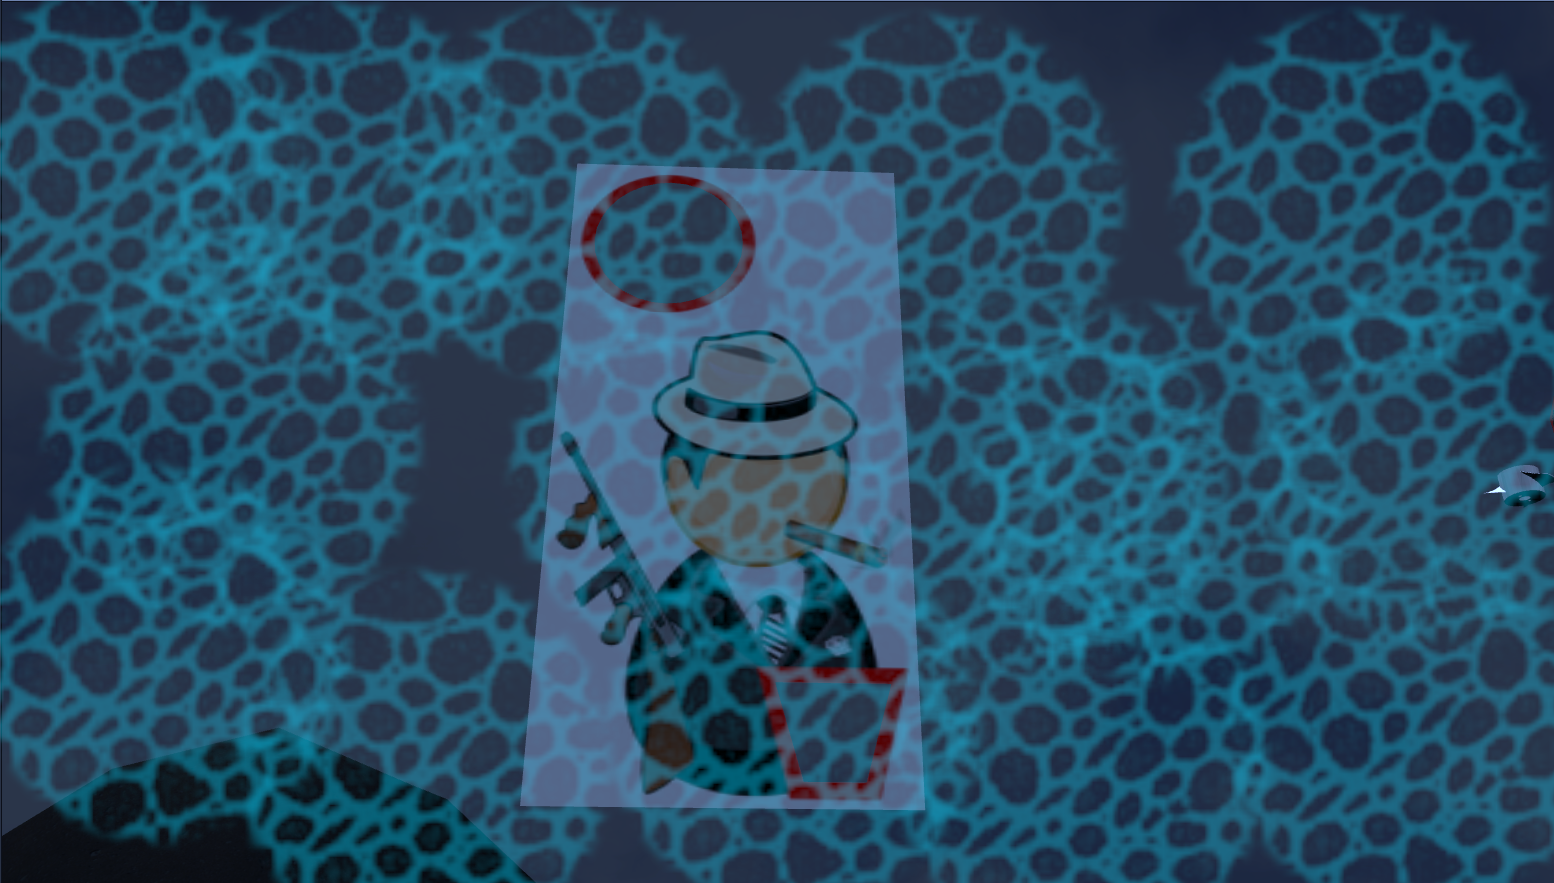
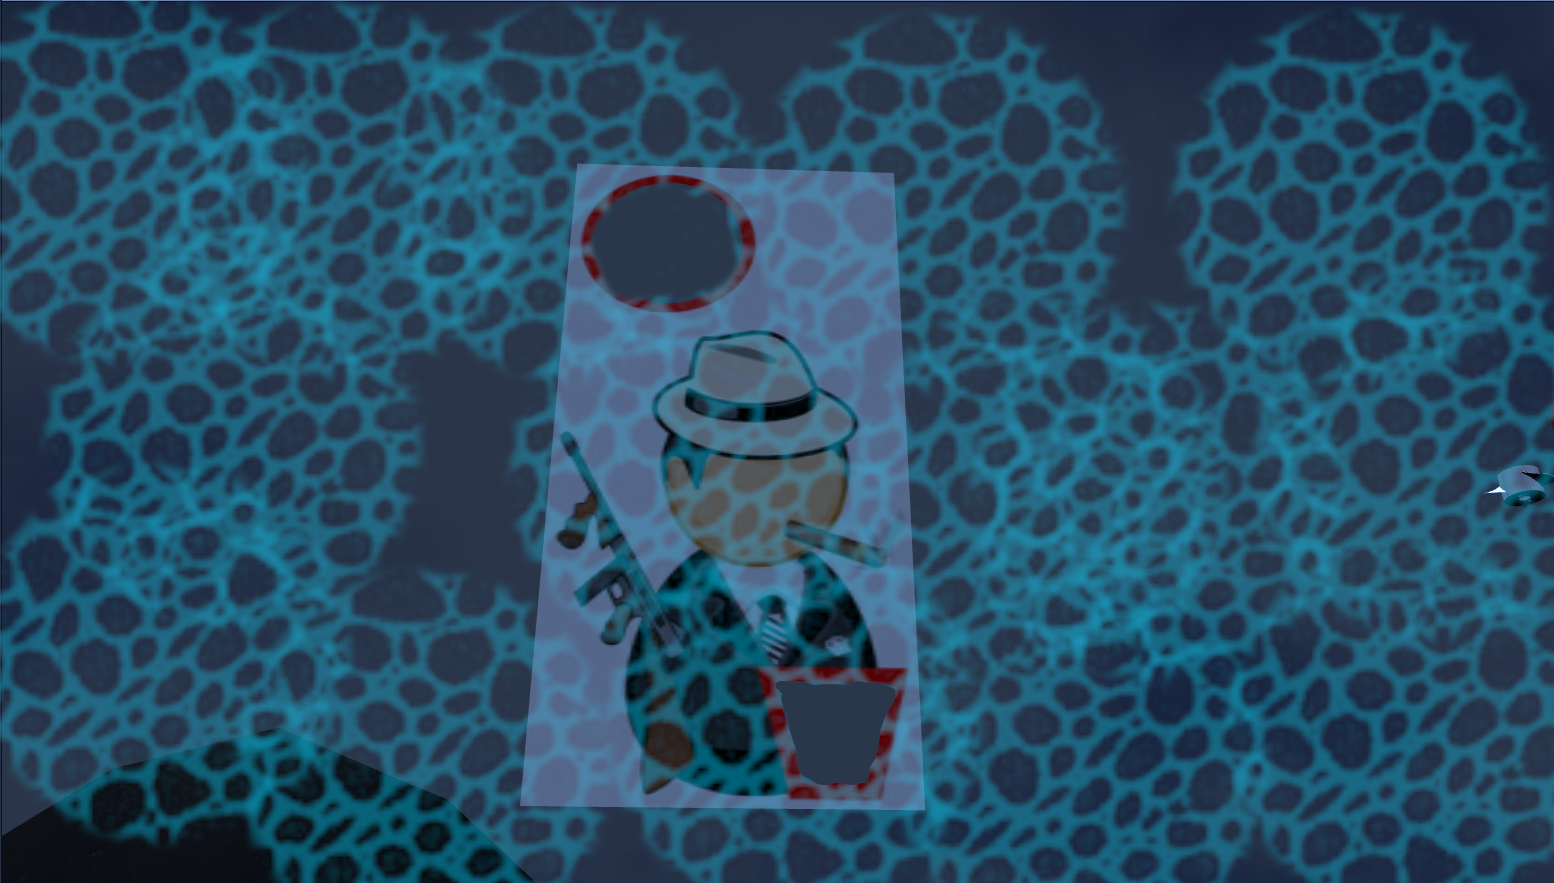
implemented more effective hole search

Changed region(s): [[0.3707, 0.214, 0.4942, 0.3364], [0.4942, 0.7644, 0.5869, 0.8867]]

diff --git a/src/riptide_autonomy/vision/torpedo_vision.py b/src/riptide_autonomy/vision/torpedo_vision.py
@@ -18,11 +18,10 @@ def angle(pt1, pt2):
 
 
 #looks for corners in big shapes. this method may not work for corners in small shapes
-def numCorners(contour):
+def numSegments(contour):
     arclength = cv2.arcLength(contour, True)
     corners = cv2.approxPolyDP(contour, 0.02 * arclength, True)
     corners = np.insert(corners, len(corners), corners[0], 0) #add first corner so that it is processed with the last as a segment
-    # count = 0
         
     longSegments = []
     for i in range(1, len(corners)):
@@ -31,6 +30,7 @@ def numCorners(contour):
         if dist(prev, curr) > 250:
             longSegments.append([prev, curr])
             
+    #TODO figure out whether to delete or keep
     # longSegments.append(longSegments[0])
     
     # for i in range(1, len(longSegments)):
@@ -47,21 +47,8 @@ def numCorners(contour):
     return len(longSegments)
     
 
-# def specialThreshold(img, lowerH, upperH):
-#     for row in img:
-#         for col in row: #col is [h, s, v]
-#             if col[2] > lowerH and col[2] < upperH:
-#                 col[0] = 255
-#                 col[1] = 255
-    
-#     return img
-
-
 def isPotentialTarget(contour):
     (x, y), (w, h), a = cv2.minAreaRect(contour)
-                
-    # if x + (w/2) > 800 and y + (h/2) > 600 and x + (w/2) < 900:
-    #     print("{}, {}: area: {}".format(x+(w/2), y+(h/2), w*h))
     
     #first test: is the object big enough?
     if w * h > 5000:
@@ -71,15 +58,14 @@ def isPotentialTarget(contour):
         contourLength = cv2.arcLength(contour, True)
         hullLength = cv2.arcLength(hull, True)
         lengthRatio = contourLength / hullLength
-        corners = numCorners(contour)
-        # print("{}, {}: corners: {}, area: {}, length ratio: {}, aspect ratio: {}".format(x + (w/2), y + (h/2), corners, w*h, lengthRatio, w/h))
+        corners = numSegments(contour)
         if abs(1 - lengthRatio) < 0.2:
             #third test: is the aspect ratio good?
             if abs(1 - (w / h)) < 0.3:
                 #fourth test: does it have the proper number of sides? TODO: figure out if this test is reliable
-                # corners = numCorners(contour)
-                # if corners == 10 or corners == 8 or corners == 4:
-                return True
+                corners = numSegments(contour)
+                if corners == 10 or corners == 5 or corners == 8 or corners == 4:
+                    return True
 
     return False
 
@@ -99,65 +85,68 @@ def getTargets(contours, hierarchy, i=0):
     return targets
 
 
+def processImage(img):
+    out = img.copy()
+    holes = [] #array composed of contours that represent holes in the props
+    
+    blurred = cv2.blur(img, (5,5))
+    edges = cv2.Canny(blurred, 15, 160)
+    edges = cv2.dilate(edges, cv2.getStructuringElement(cv2.MORPH_RECT, (3,3)))
+    
+    contours, _ = cv2.findContours(edges, cv2.RETR_LIST, cv2.CHAIN_APPROX_SIMPLE)
+    
+    for contour in contours:
+        x, y, w, h = cv2.boundingRect(contour)
+        if w * h > 5000:
+            #create blank image to test contour on
+            canvas = np.zeros(shape=(img.shape[0], img.shape[1], 1), dtype="uint8")
+            canvas = cv2.drawContours(canvas, [contour], 0, (255), 5)
+            
+            postContours, _ = cv2.findContours(canvas, cv2.RETR_EXTERNAL, cv2.CHAIN_APPROX_SIMPLE)
+            
+            for postContour in postContours:
+                if isPotentialTarget(postContour):
+                    holes.append(postContour)
+            
+            #TODO: remove temporary debug code
+            # cv2.imshow("canvas", canvas)
+            # cv2.waitKey()
+    
+    #print good contours on output image
+    if DEBUG:
+        cv2.drawContours(out, holes, -1, (255, 0, 0))
+        for contour in holes:
+            x, y, w, h = cv2.boundingRect(contour)
+            cX = int(x + (w/2))
+            cY = int(y + (h/2))
+            
+            cv2.circle(out, (cX, cY), 2, (0, 255, 0), 2)
+            
+            #draw all corners that approxpolydp could find?
+            arclength = cv2.arcLength(contour, True)
+            corners = cv2.approxPolyDP(contour, 0.04 * arclength, True)
+            
+            for corner in corners:
+                cv2.circle(out, (corner[0][0], corner[0][1]), 2, (255, 0, 0), 2)
+        
+        cv2.imshow("image", out)
+        cv2.imshow("edges", edges)
+        cv2.waitKey()
+    
+    return holes
+
+
 def main():
     for t in ["gman", "bootlegger"]:
         for i in range(1, 6):
             name = "testimages/" + t + "_" + str(i) + ".png"
-            # name = "testimages/bootlegger_4.png"
             img = cv2.imread(name)
-            out = img.copy()
+            holes = processImage(img)
             
-            blurred = cv2.blur(img, (5, 5)) #needed to get rid of any grainy noise that might exist before edge detection
-            edges = cv2.Canny(blurred, 15, 160)
-            edges = cv2.dilate(edges, cv2.getStructuringElement(cv2.MORPH_RECT, (3, 3)))
-            edgesColor = cv2.cvtColor(edges, cv2.COLOR_GRAY2BGR)
-            contours, hierarchy = cv2.findContours(edges, cv2.RETR_TREE, cv2.CHAIN_APPROX_NONE)
+            print(holes)
             
-            for contour in contours:
-                x, y, w, h = cv2.boundingRect(contour)
-                cv2.circle(edgesColor, (int(x + (w/2)), int(y + (h/2))), 2, (0, 255, 0), 2)
-                
-                corns = numCorners(contour)
-                cv2.putText(edgesColor, str(corns), (int(x + (w/2)), int(y + (h/2))), cv2.FONT_HERSHEY_SIMPLEX, 1, (0, 255, 0))
             
-            if len(contours) > 0:
-                hierarchy = hierarchy[0]
-                                
-                n = 0
-                approvedContours = []
-                approvedContours = getTargets(contours, hierarchy)
-                                
-                for contour in approvedContours:
-                    #image markup stuff
-                    x, y, w, h = cv2.boundingRect(contour)
-                    n = n + 1
-                    
-                    #tmp TODO: remove
-                    arclength = cv2.arcLength(contour, True)
-                    segments = cv2.approxPolyDP(contour, 0.02 * arclength, True)
-                    for segment in segments:
-                        cv2.circle(out, (segment[0][0], segment[0][1]), 2, (255, 0, 0), 2)
-                    
-                    # corners = numCorners(contour)
-                    # print("{}: {}".format(n, corners))
-                                                                                    
-                    cv2.drawContours(edgesColor, contour, -1, (0, 255, 0), 2)
-                    cenX = x + (w/2)
-                    cenY = y + (h/2)
-                    cv2.circle(out, (int(cenX), int(cenY)), 1, (0, 0, 255), 2)
-                    cv2.putText(out, str(n), (int(cenX), int(cenY)), cv2.FONT_HERSHEY_SIMPLEX, 1, (255, 0, 0))
-        
-            #for debug stuff
-            if DEBUG:
-                cv2.imshow("original", img)
-                cv2.imshow("processed", edgesColor)
-                
-            cv2.imshow(name, out)
-            cv2.waitKey()
-            
-
 if __name__ == '__main__': #start here
     sys.setrecursionlimit(2500) #this is needed because getTargets() uses some monster recursion to go through the contour tree
     main()
-    cv2.waitKey()
     
